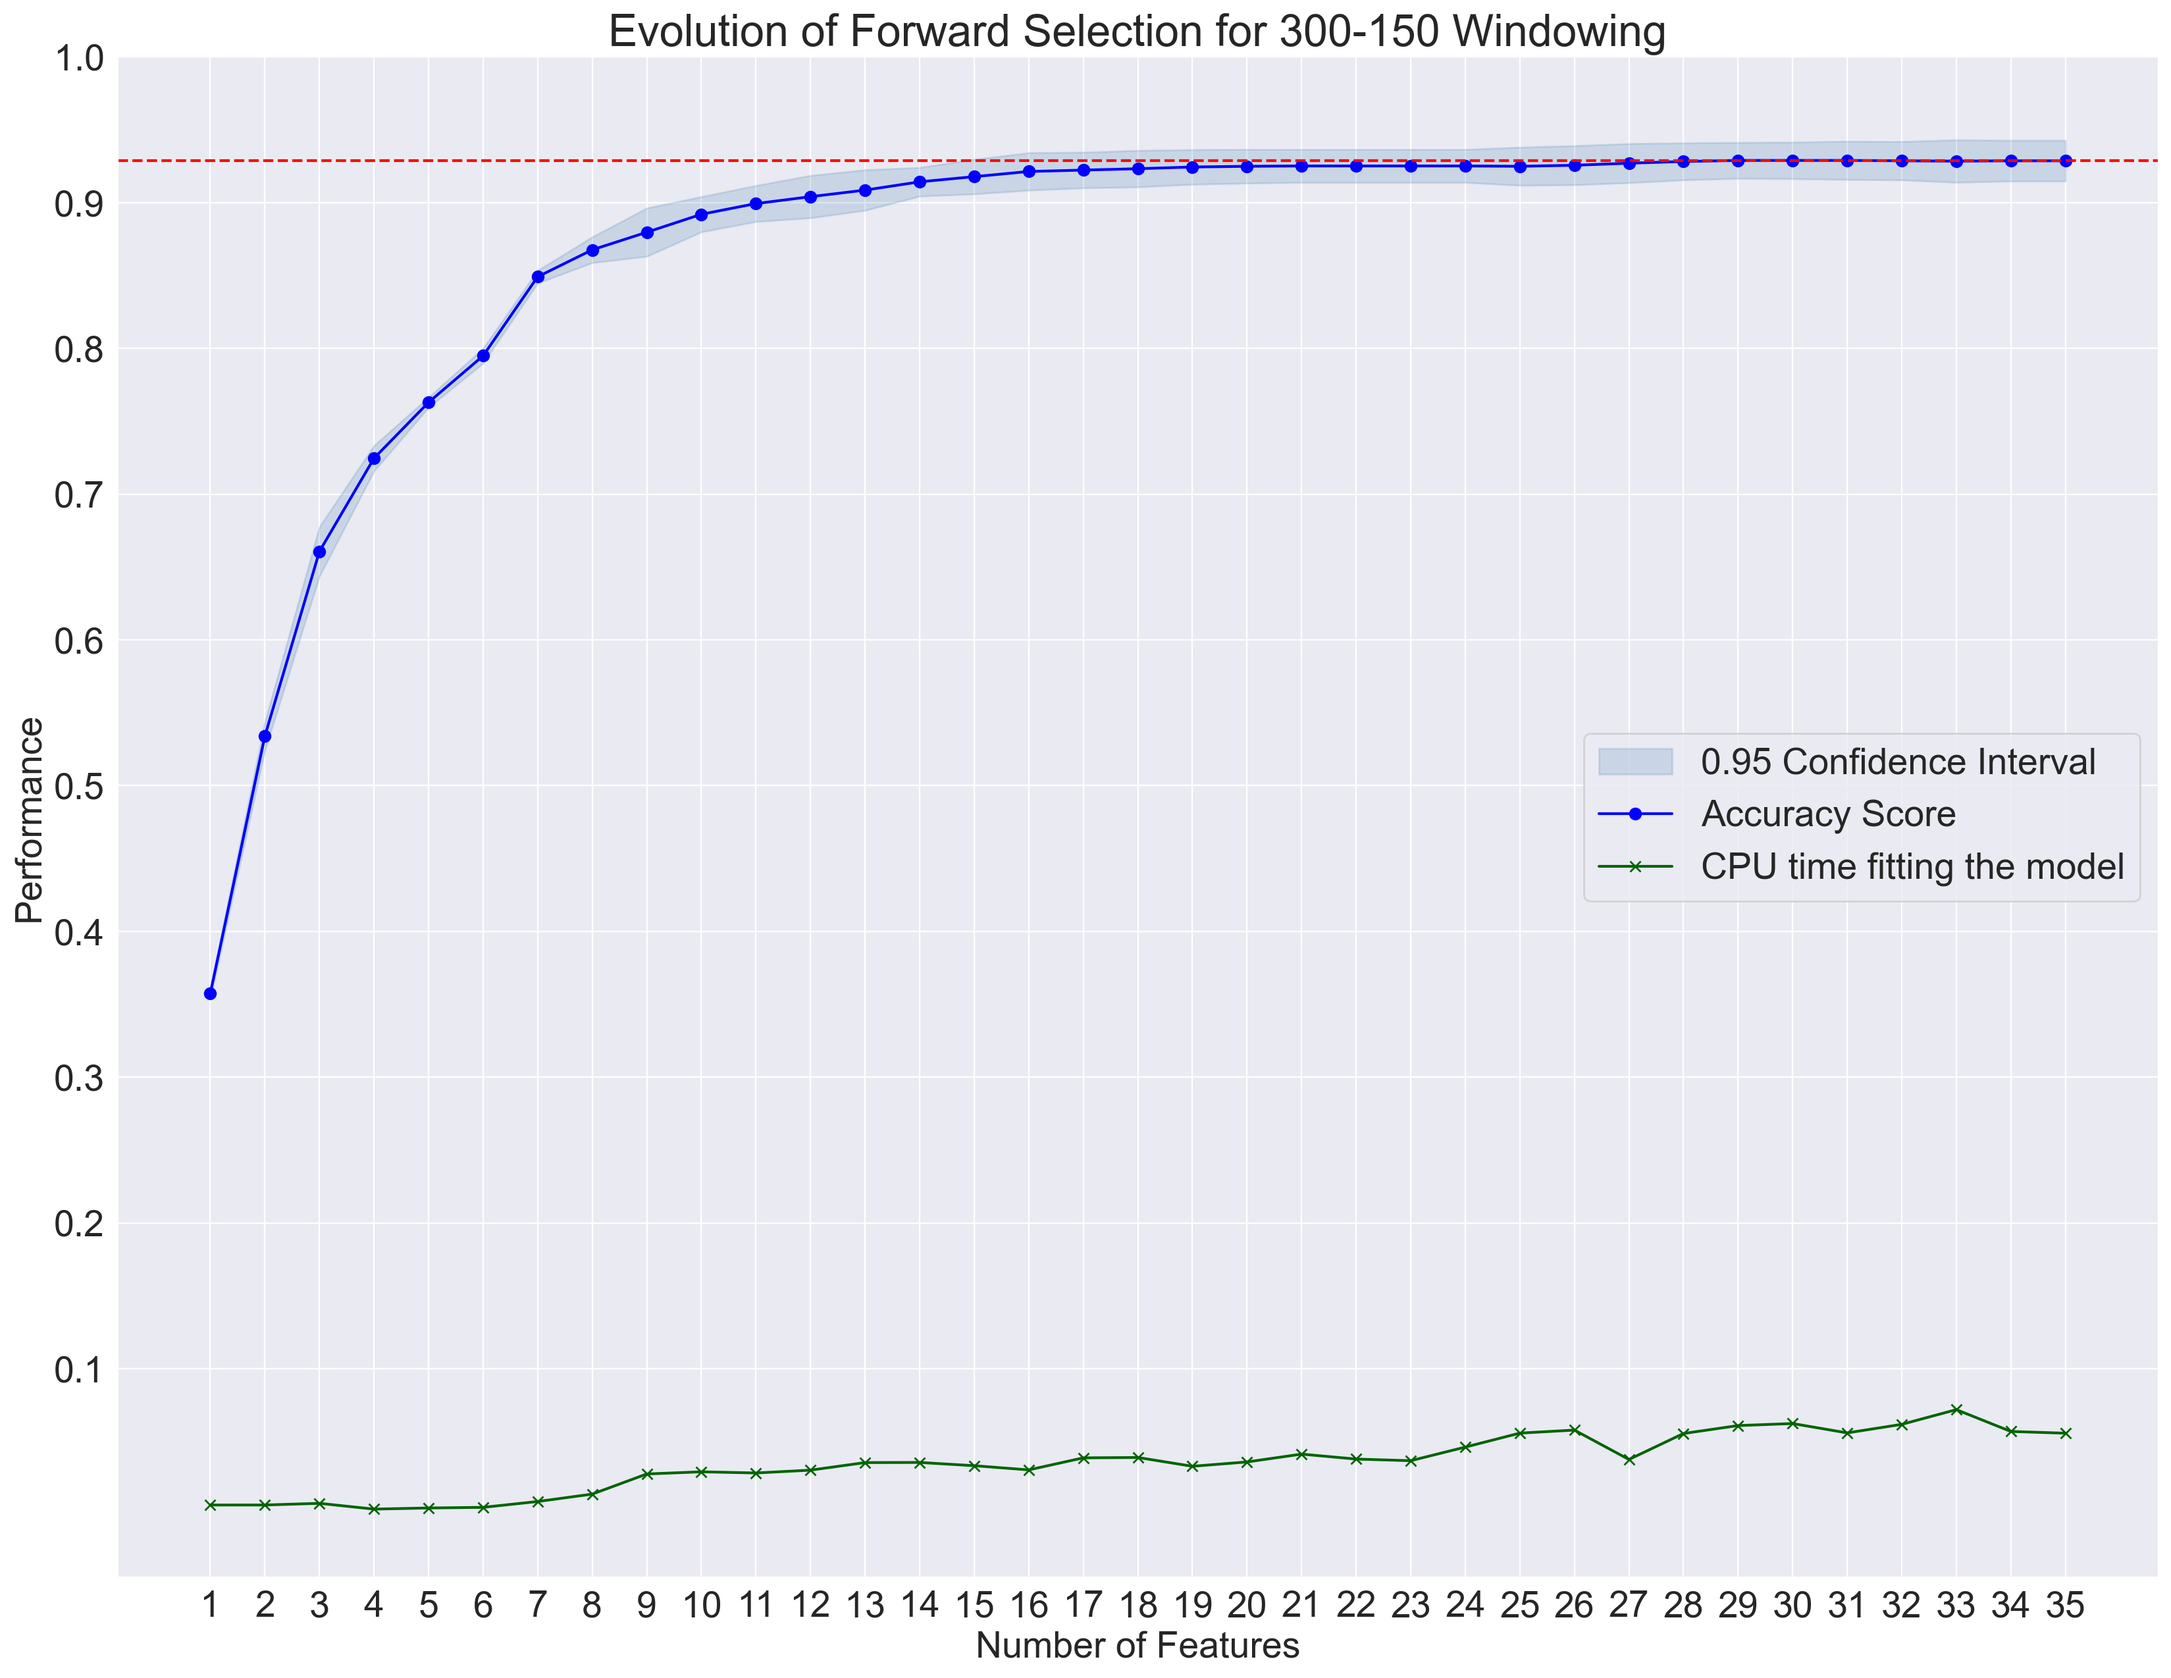
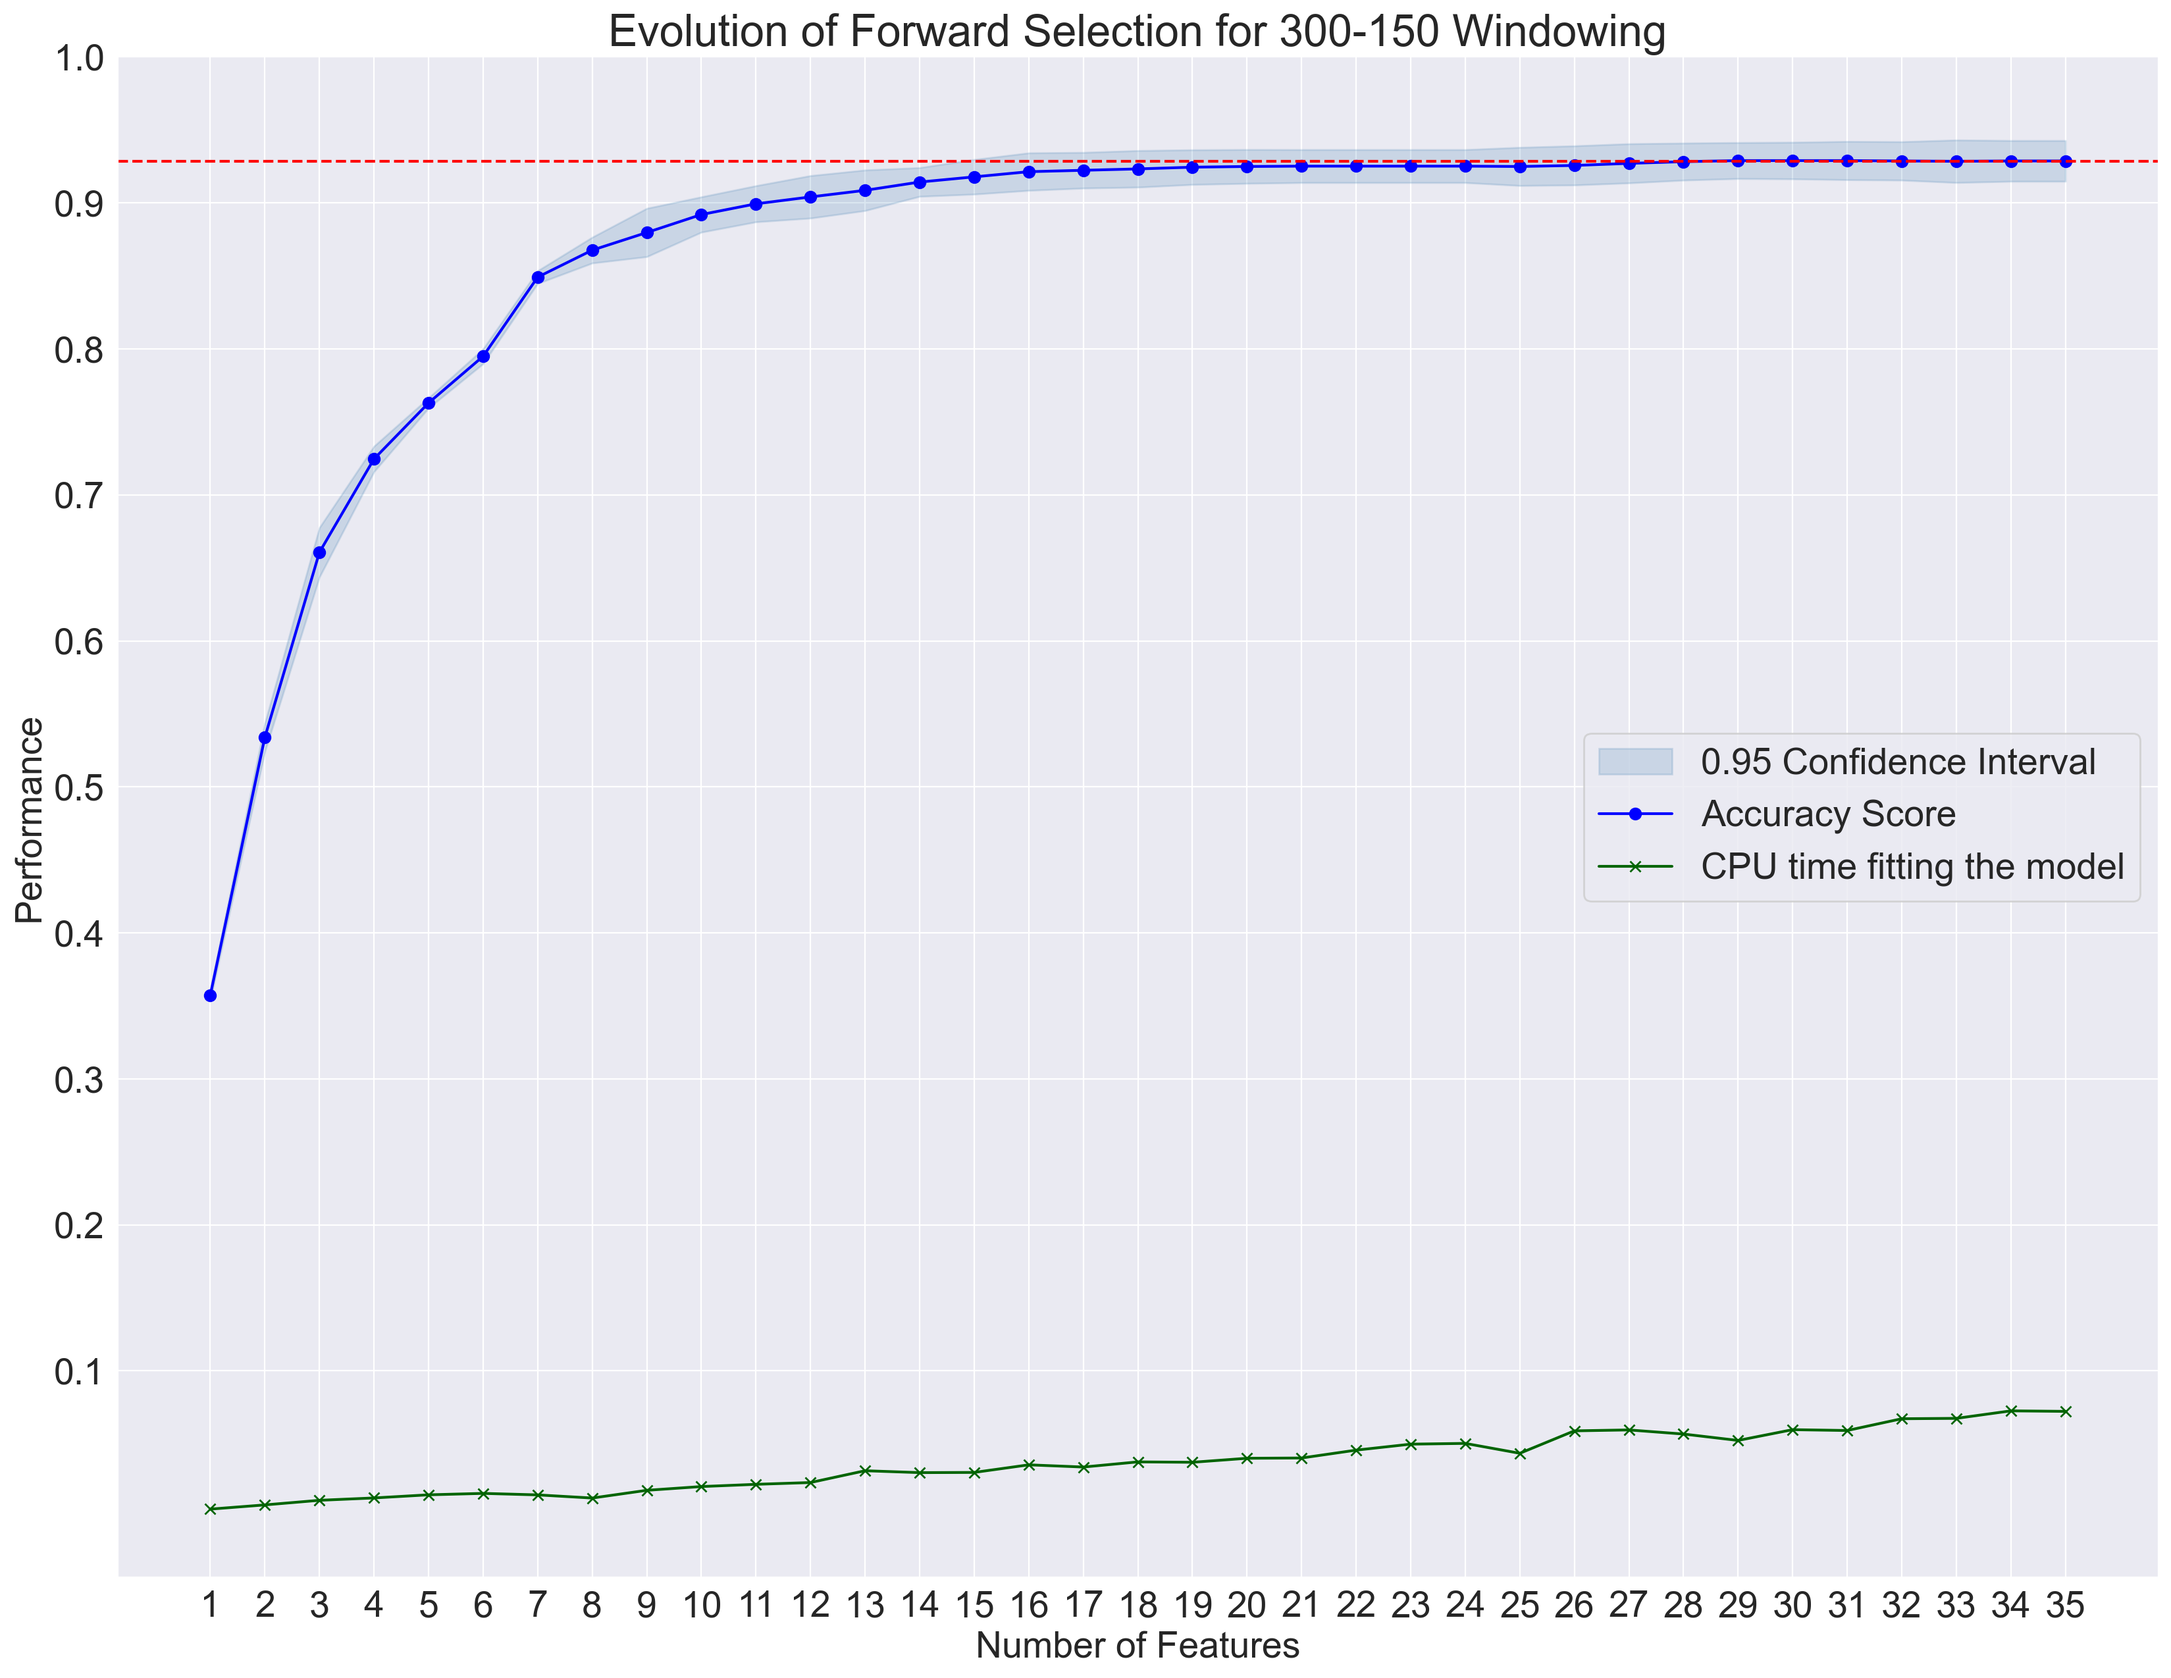
small changes

Changed region(s): [[0.1249, 0.8678, 0.5622, 0.8988], [0.6559, 0.8368, 0.9369, 0.8678]]

diff --git a/Code/main.py b/Code/main.py
@@ -33,7 +33,7 @@ window_overlap = 150
 wavelet_type = 'db1'
 wavelet_level = 4
 
-model_name = 'svc'    # Choose: svc, lda, random_forest
+model_name = 'lda'    # Choose: svc, lda, random_forest
 
 
 # Create dataset class and save only if necessary 
@@ -78,8 +78,8 @@ mlmodel.create_featuresets_dataframe(featuresets_dict=feat.feature_sets_dict, sc
 
 # Wrapper feature selection
 # ----------------------------------------------
-# mlmodel.forward_feature_selection(35, 'all_features')[0]
-# mlmodel.store_forward_selection_results()
+mlmodel.forward_feature_selection(35, 'all_features')[0]
+mlmodel.store_forward_selection_results()
 
 # mlmodel.backward_feature_elimination(256, 'all_features')[0]    # This is quite computationally expensive
 # mlmodel.store_backward_elimination_results()
@@ -87,7 +87,7 @@ mlmodel.create_featuresets_dataframe(featuresets_dict=feat.feature_sets_dict, sc
 # Use feature sets from forward selection to get other results
 # ----------------------------------------------
 # mlmodel.plot_forward_selection_true_results(no_features=35, feature_set_name = 'all features')
-# mlmodel.plot_PCA_improvement(no_features=35, feature_set_name = 'all features')
+mlmodel.plot_PCA_improvement(no_features=35, n_components=0.95, feature_set_name = 'all features')
 
 
 # Set hyperparameters for grid search table
